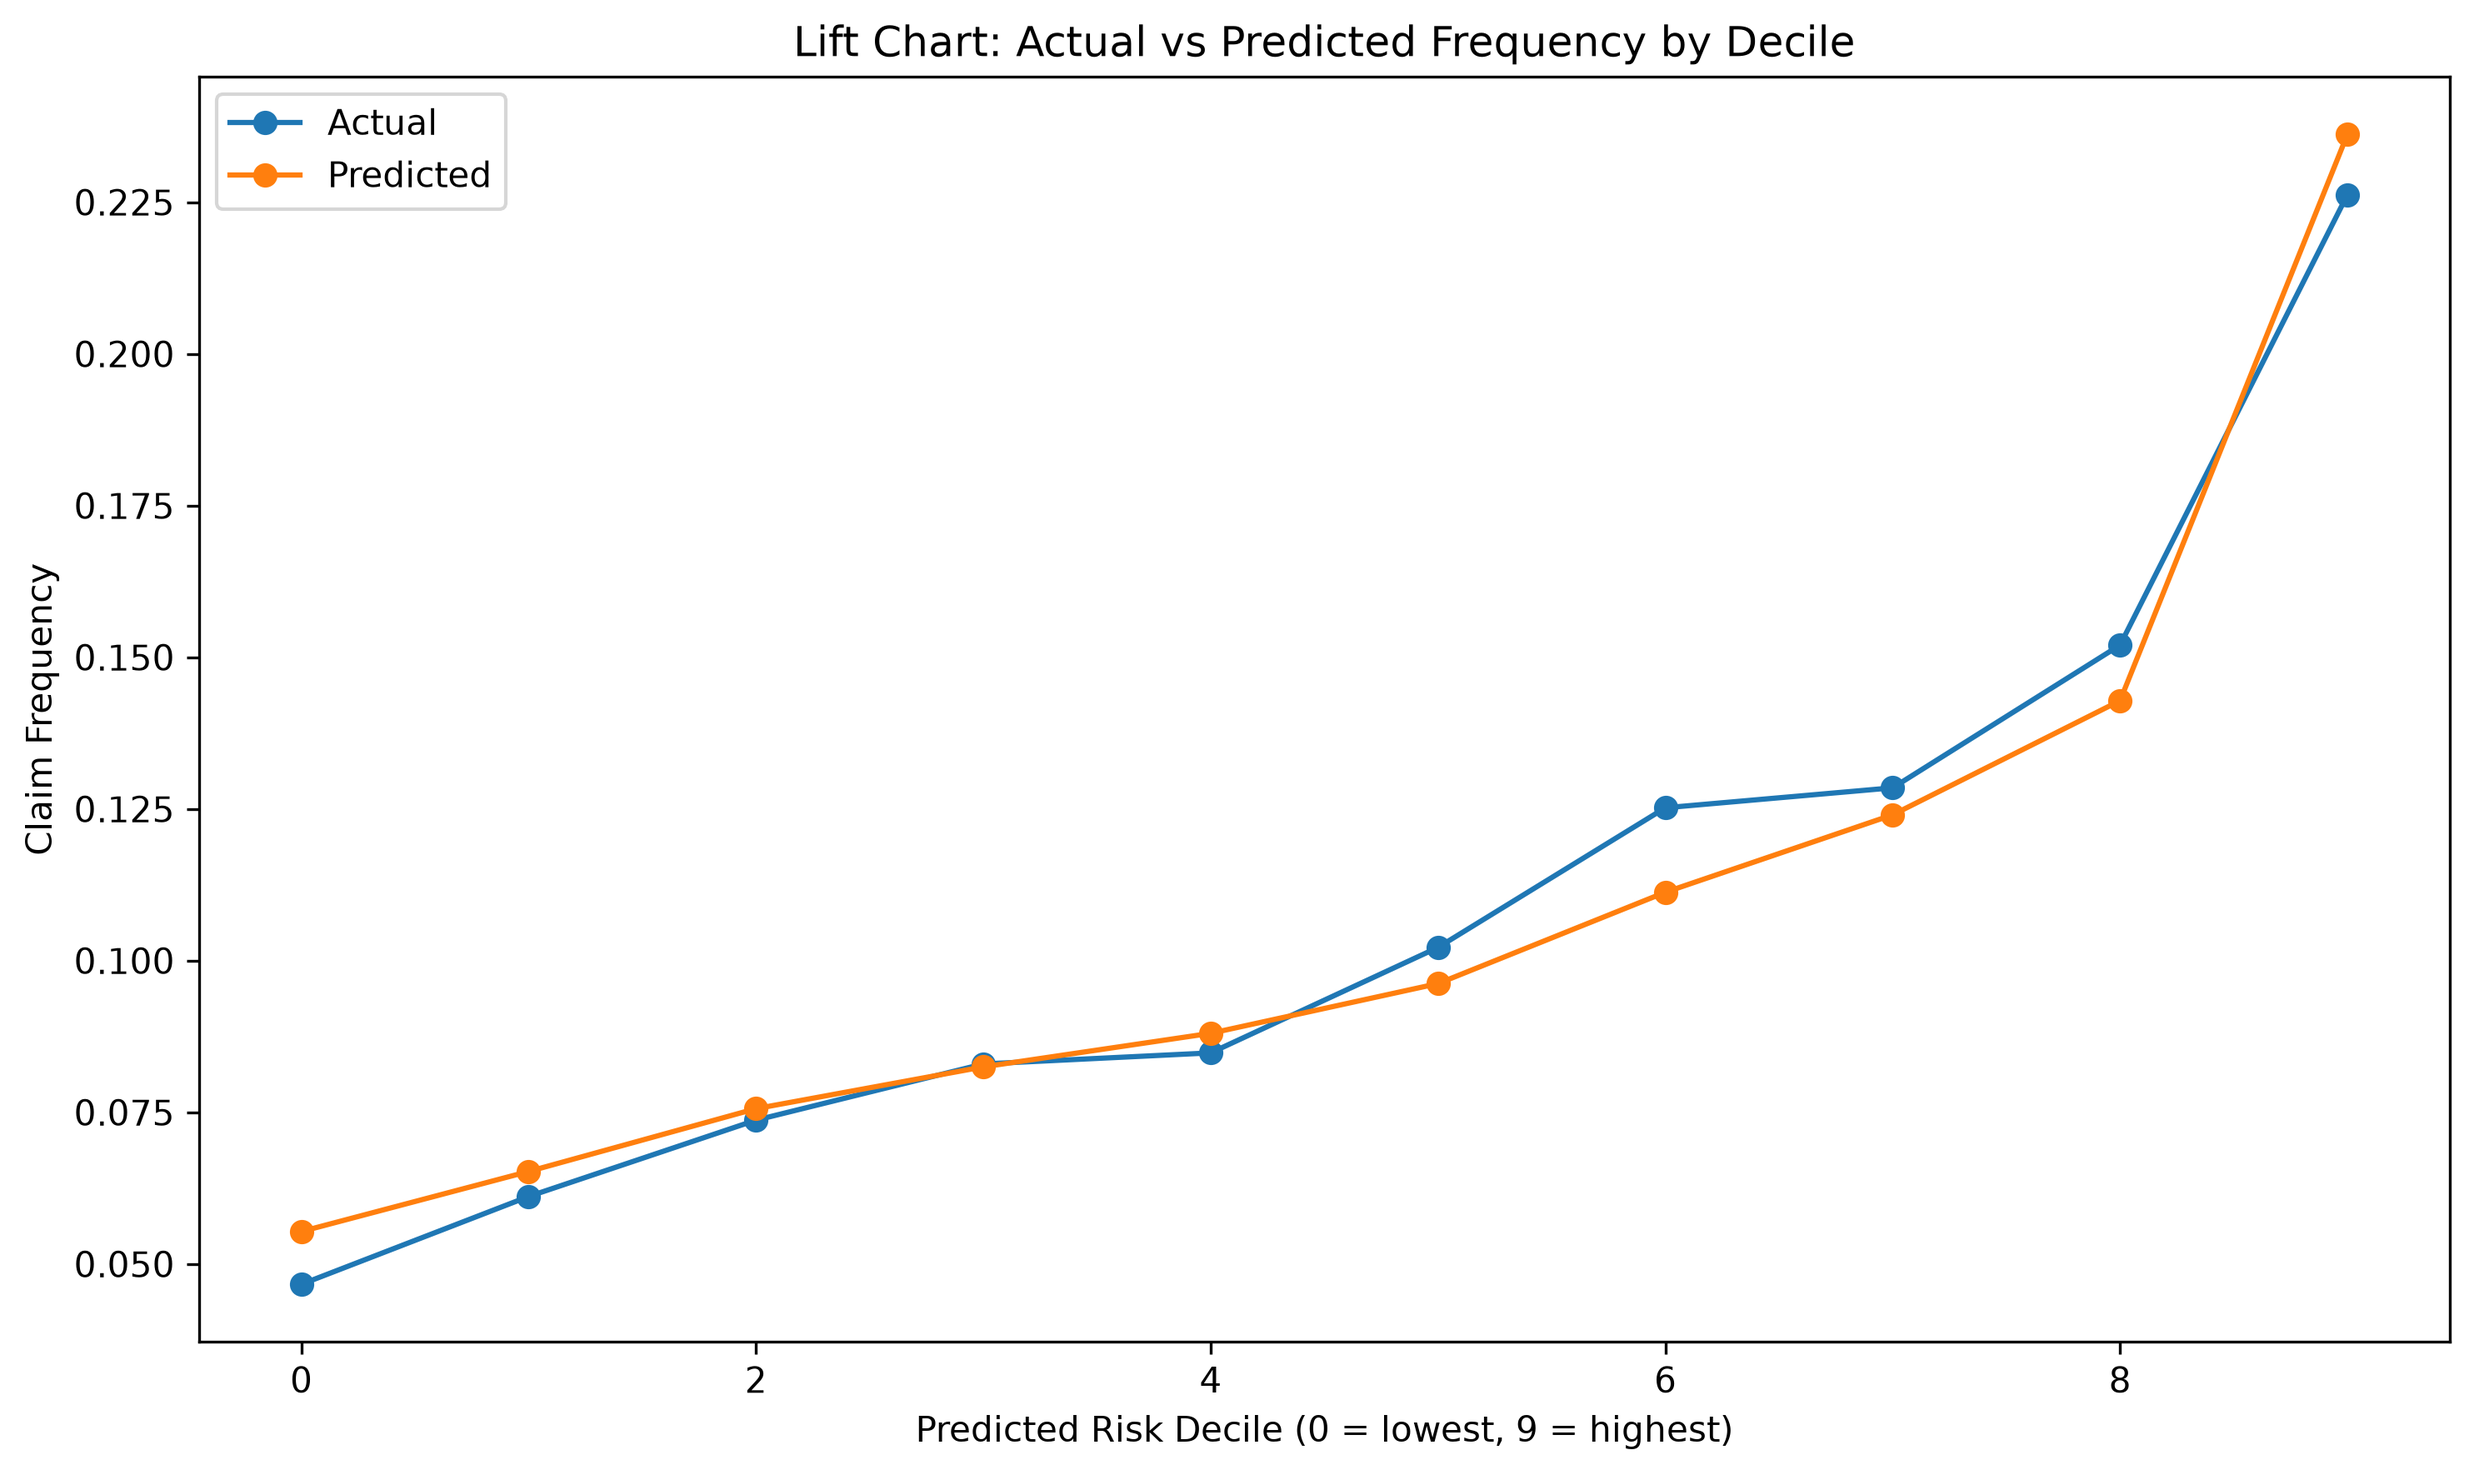
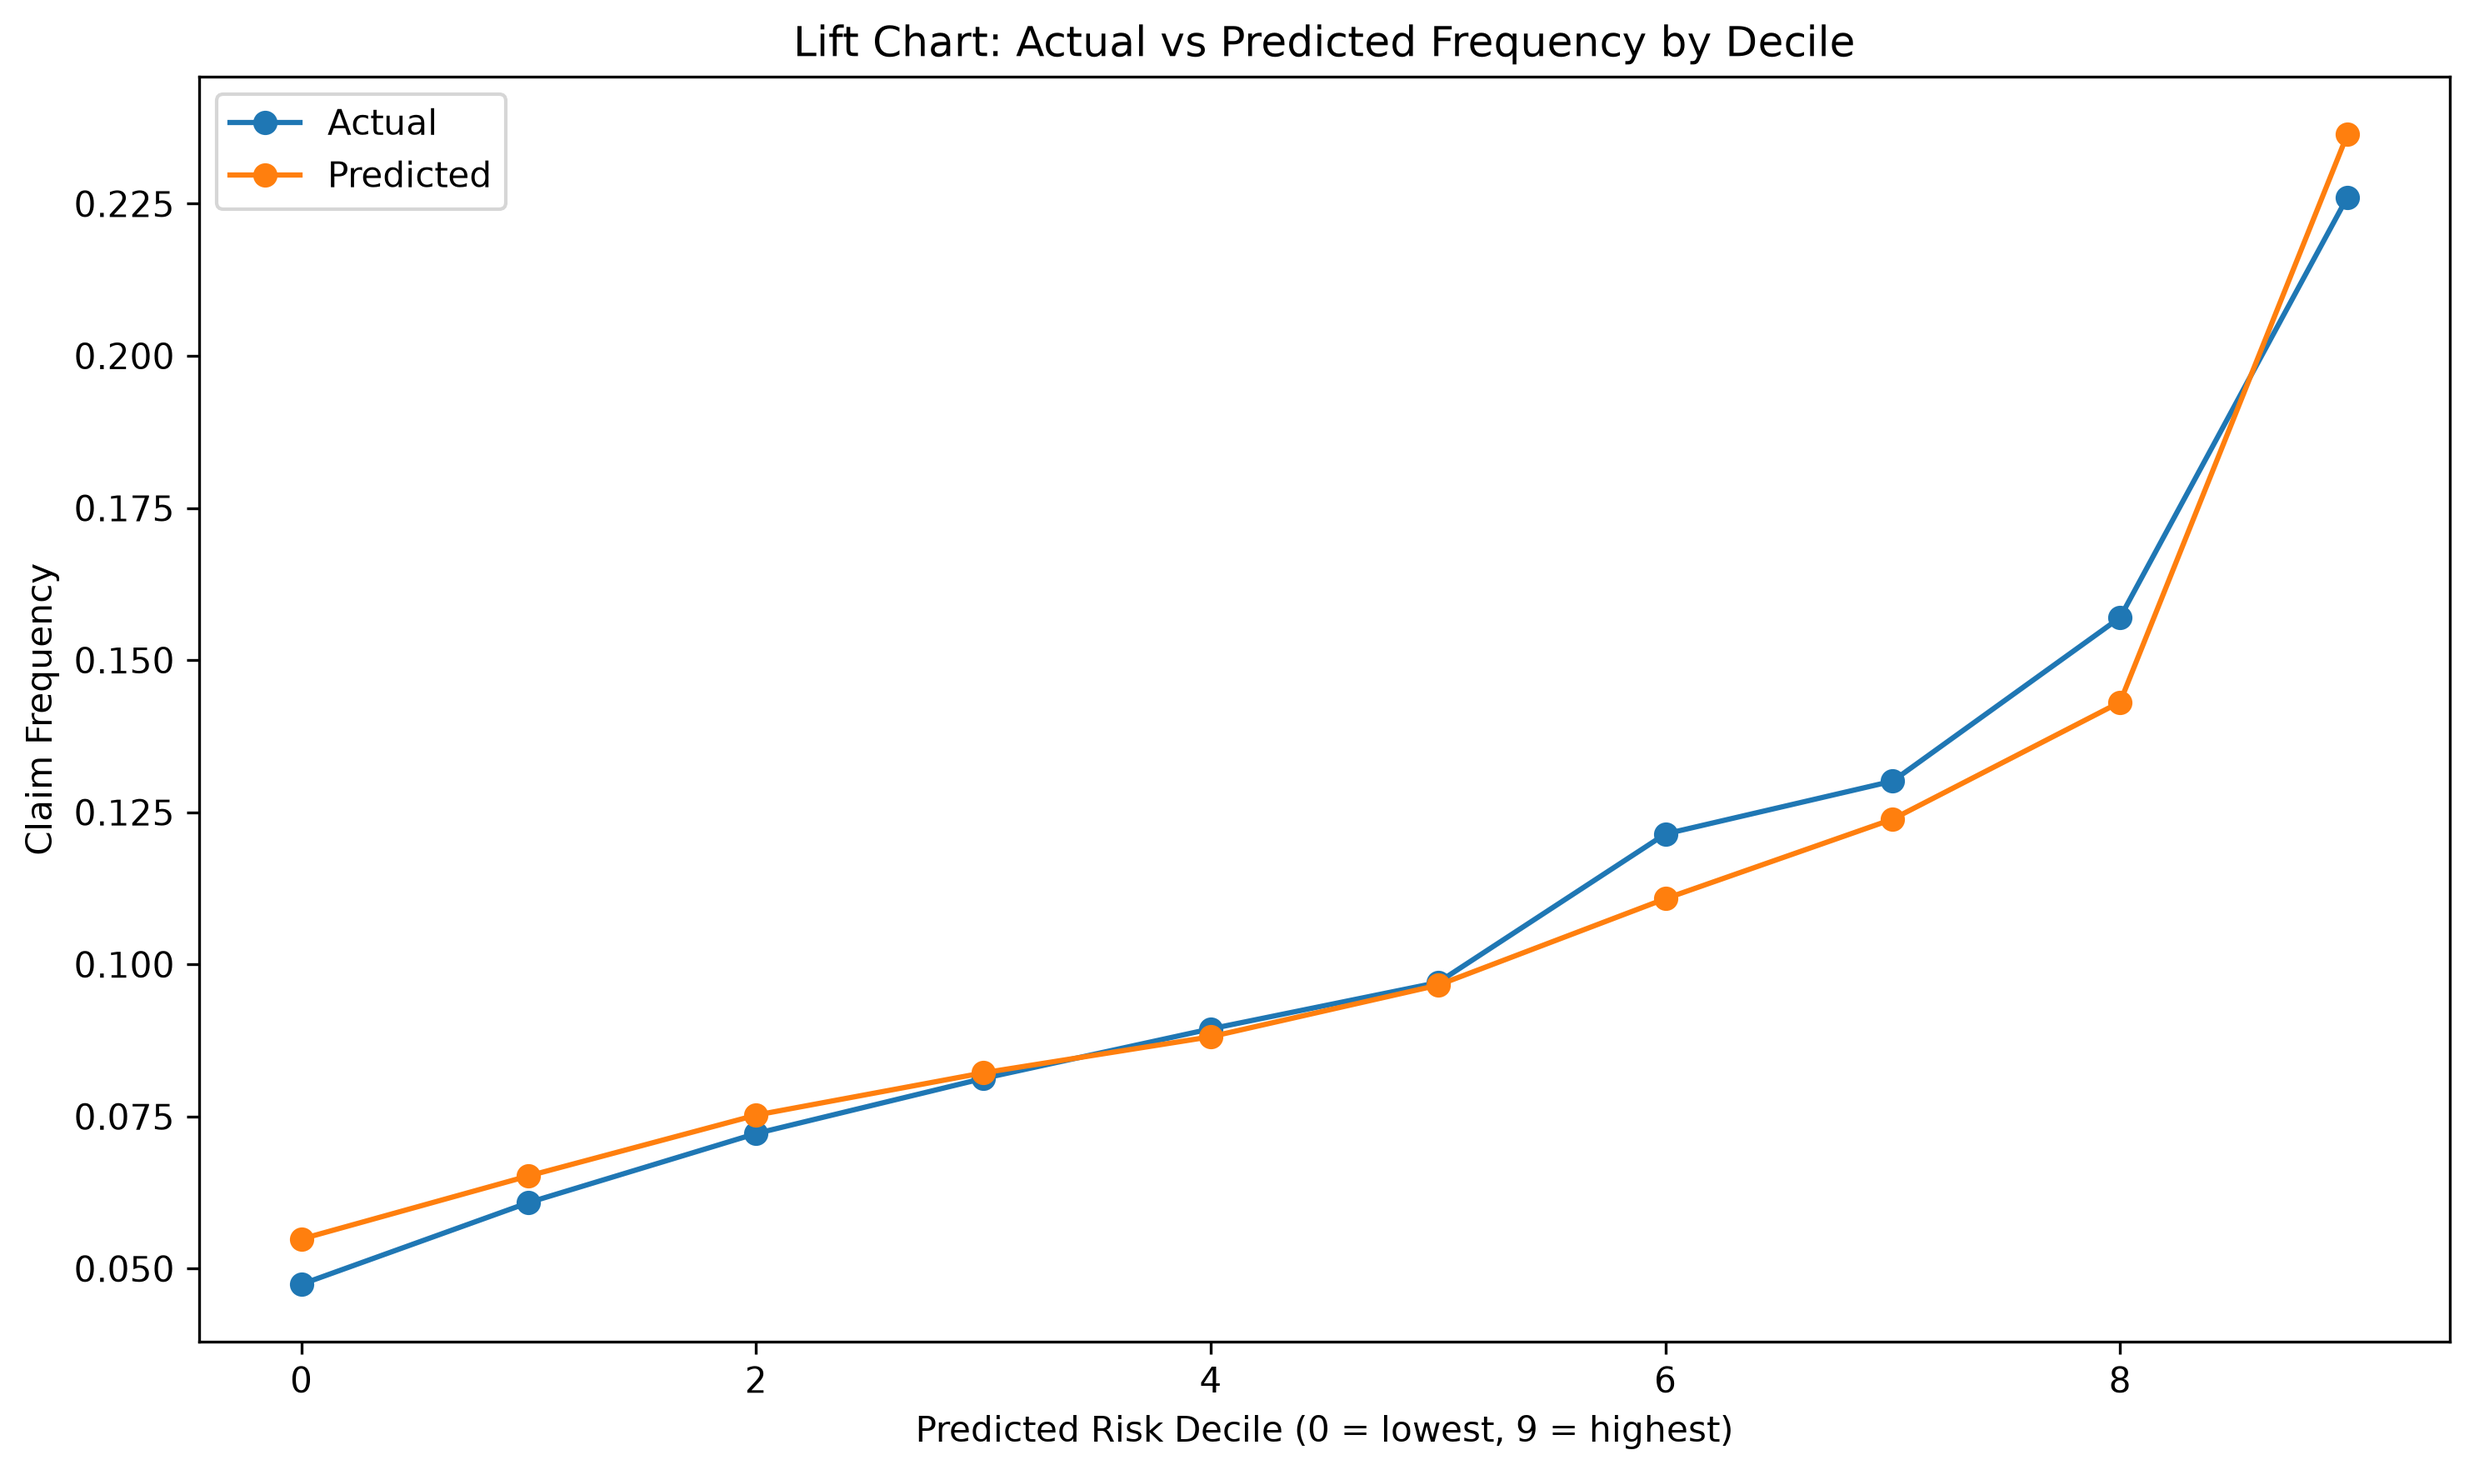
Added VehGas to the model and updated the lift chart and lorenz curve graphs to reflect the changes made in the glmBuild.py and main.py files.

diff --git a/glmBuild.py b/glmBuild.py
@@ -126,3 +126,34 @@ def glmFit4(freq):
     print(model.aic)
 
     return model, freq
+
+
+def glmFit5(freq):
+
+    '''
+
+    '''
+
+
+    train, test = train_test_split(freq, test_size=0.2, random_state=42)
+    trainOffset = np.log(train['Exposure'])
+    testOffset = np.log(test['Exposure'])
+
+    train["DrivAgeBin"] = pd.qcut(train["DrivAge"], q=5, duplicates='drop')
+    train_bins = pd.qcut(train["DrivAge"], q=5, duplicates='drop', retbins=True)[1]
+    train["DrivAgeBin"] = pd.cut(train["DrivAge"], bins=train_bins, include_lowest=True)
+    test["DrivAgeBin"] = pd.cut(test["DrivAge"], bins=train_bins, include_lowest=True)
+    freq["DrivAgeBin"] = pd.cut(freq["DrivAge"], bins=train_bins, include_lowest=True)  # Add to freq
+
+
+    train["VehAgeBin"] = pd.qcut(train["VehAge"], q=5, duplicates='drop')
+    train_bins = pd.qcut(train["VehAge"], q=5, duplicates='drop', retbins=True)[1]
+    train["VehAgeBin"] = pd.cut(train["VehAge"], bins=train_bins, include_lowest=True)
+    test["VehAgeBin"] = pd.cut(test["VehAge"], bins=train_bins, include_lowest=True)
+    freq["VehAgeBin"] = pd.cut(freq["VehAge"], bins=train_bins, include_lowest=True)  # Add to freq
+
+    model = smf.glm(formula='ClaimNb ~ BonusMalus + C(DrivAgeBin) + C(VehAgeBin) + C(Region) + C(VehGas)', data=train, family=sm.families.Poisson(), offset=trainOffset).fit()
+    print(model.summary())
+    print(model.aic)
+
+    return model, freq

diff --git a/main.py b/main.py
@@ -36,8 +36,8 @@ freqPivot, exposurePivot = Interactions.heatMap(freq, "DrivAge", "BonusMalus", q
 #print(freqPivot)
 #print(exposurePivot)
 
-model4, freq = glmBuild.glmFit4(freq)
-#freq["predicted"] = model4.predict(freq, offset=np.log(freq["Exposure"]))
-#liftSummary = V.liftChart(model4, freq, offsetCol="Exposure", claimCol="ClaimNb", q=10, saveName="lift_chart_model4")
-#giniCoef = V.giniCoefficient(model4, freq, offsetCol="Exposure", claimCol="ClaimNb", saveName="lorenz_curve_model4")
-#print(f"Gini coefficient: {giniCoef:.4f}")
+model4, freq = glmBuild.glmFit5(freq)
+freq["predicted"] = model4.predict(freq, offset=np.log(freq["Exposure"]))
+liftSummary = V.liftChart(model4, freq, offsetCol="Exposure", claimCol="ClaimNb", q=10, saveName="lift_chart_model4")
+giniCoef = V.giniCoefficient(model4, freq, offsetCol="Exposure", claimCol="ClaimNb", saveName="lorenz_curve_model4")
+print(f"Gini coefficient: {giniCoef:.4f}")
